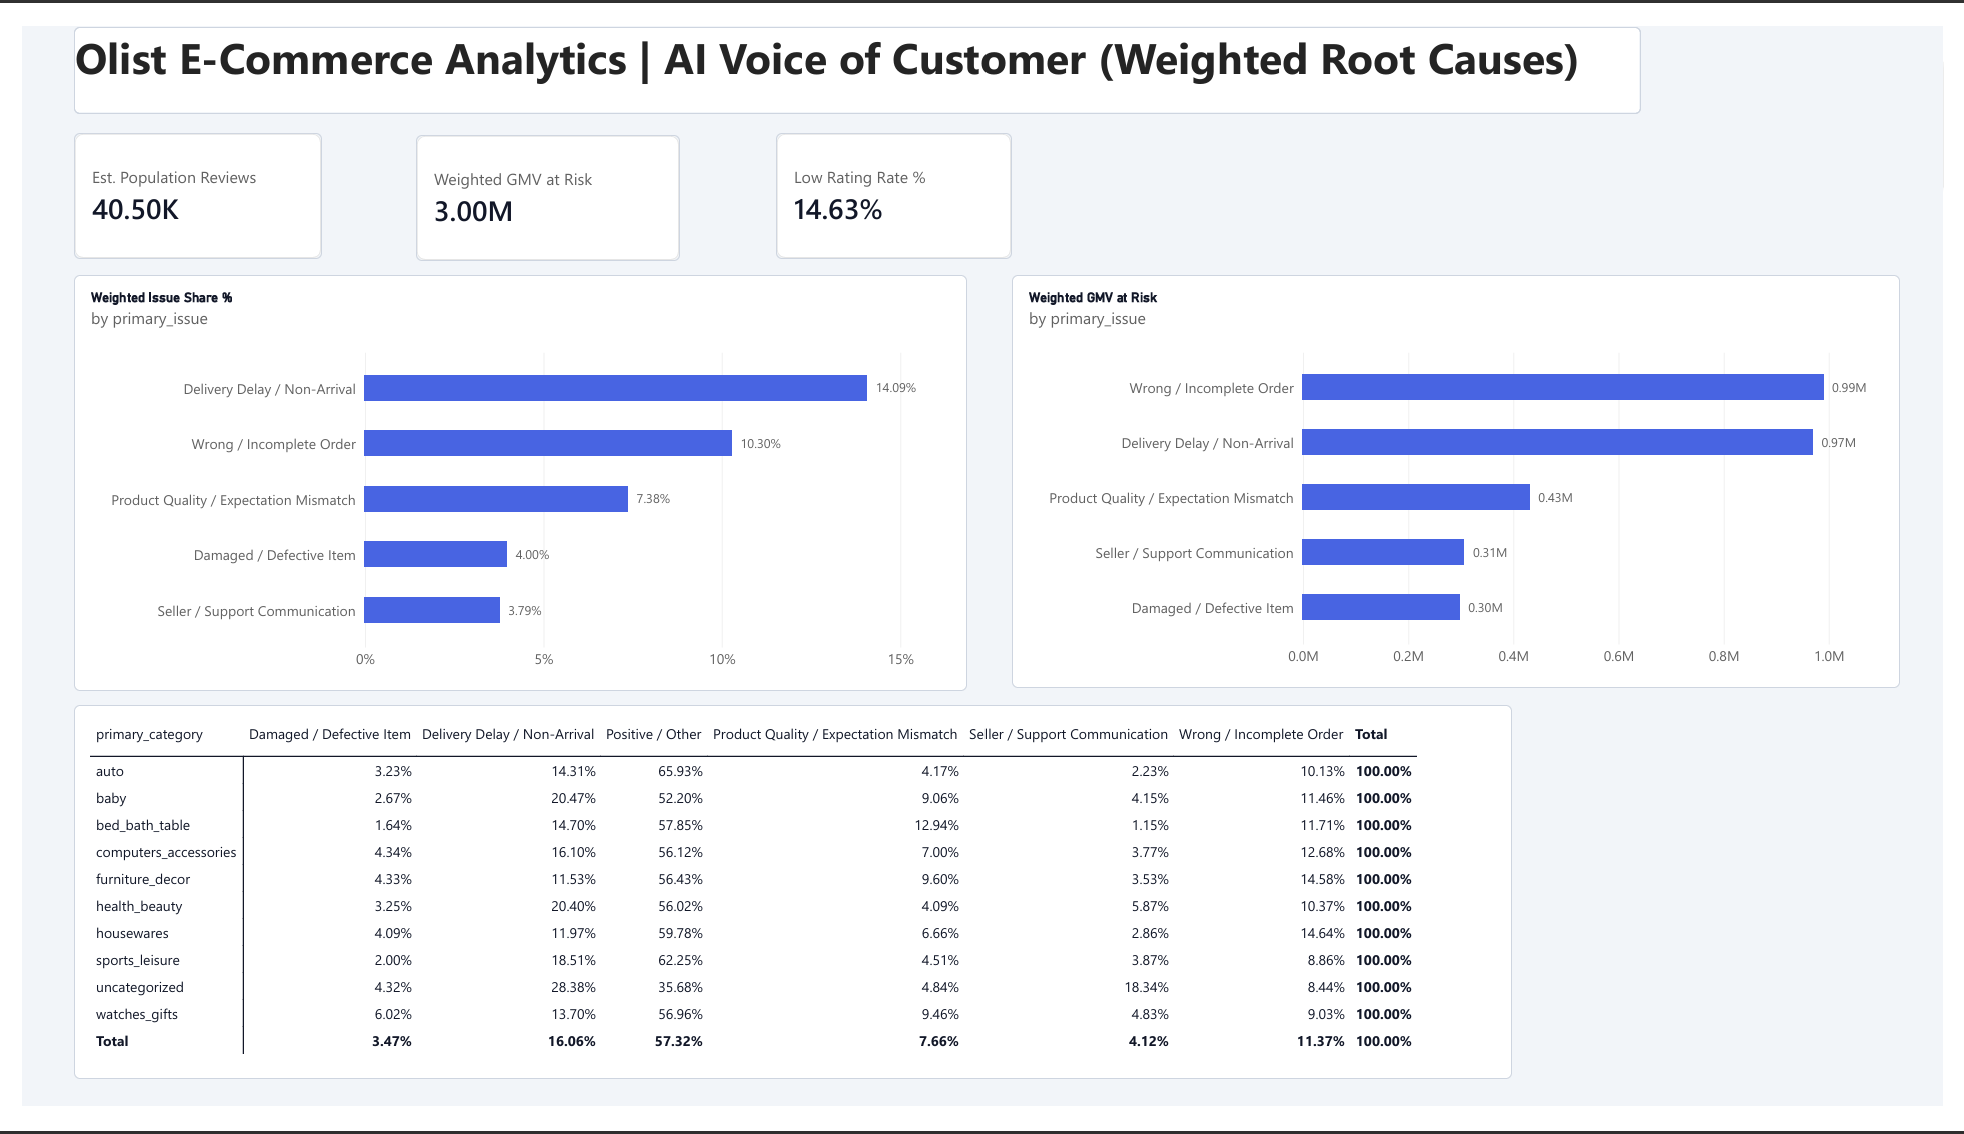
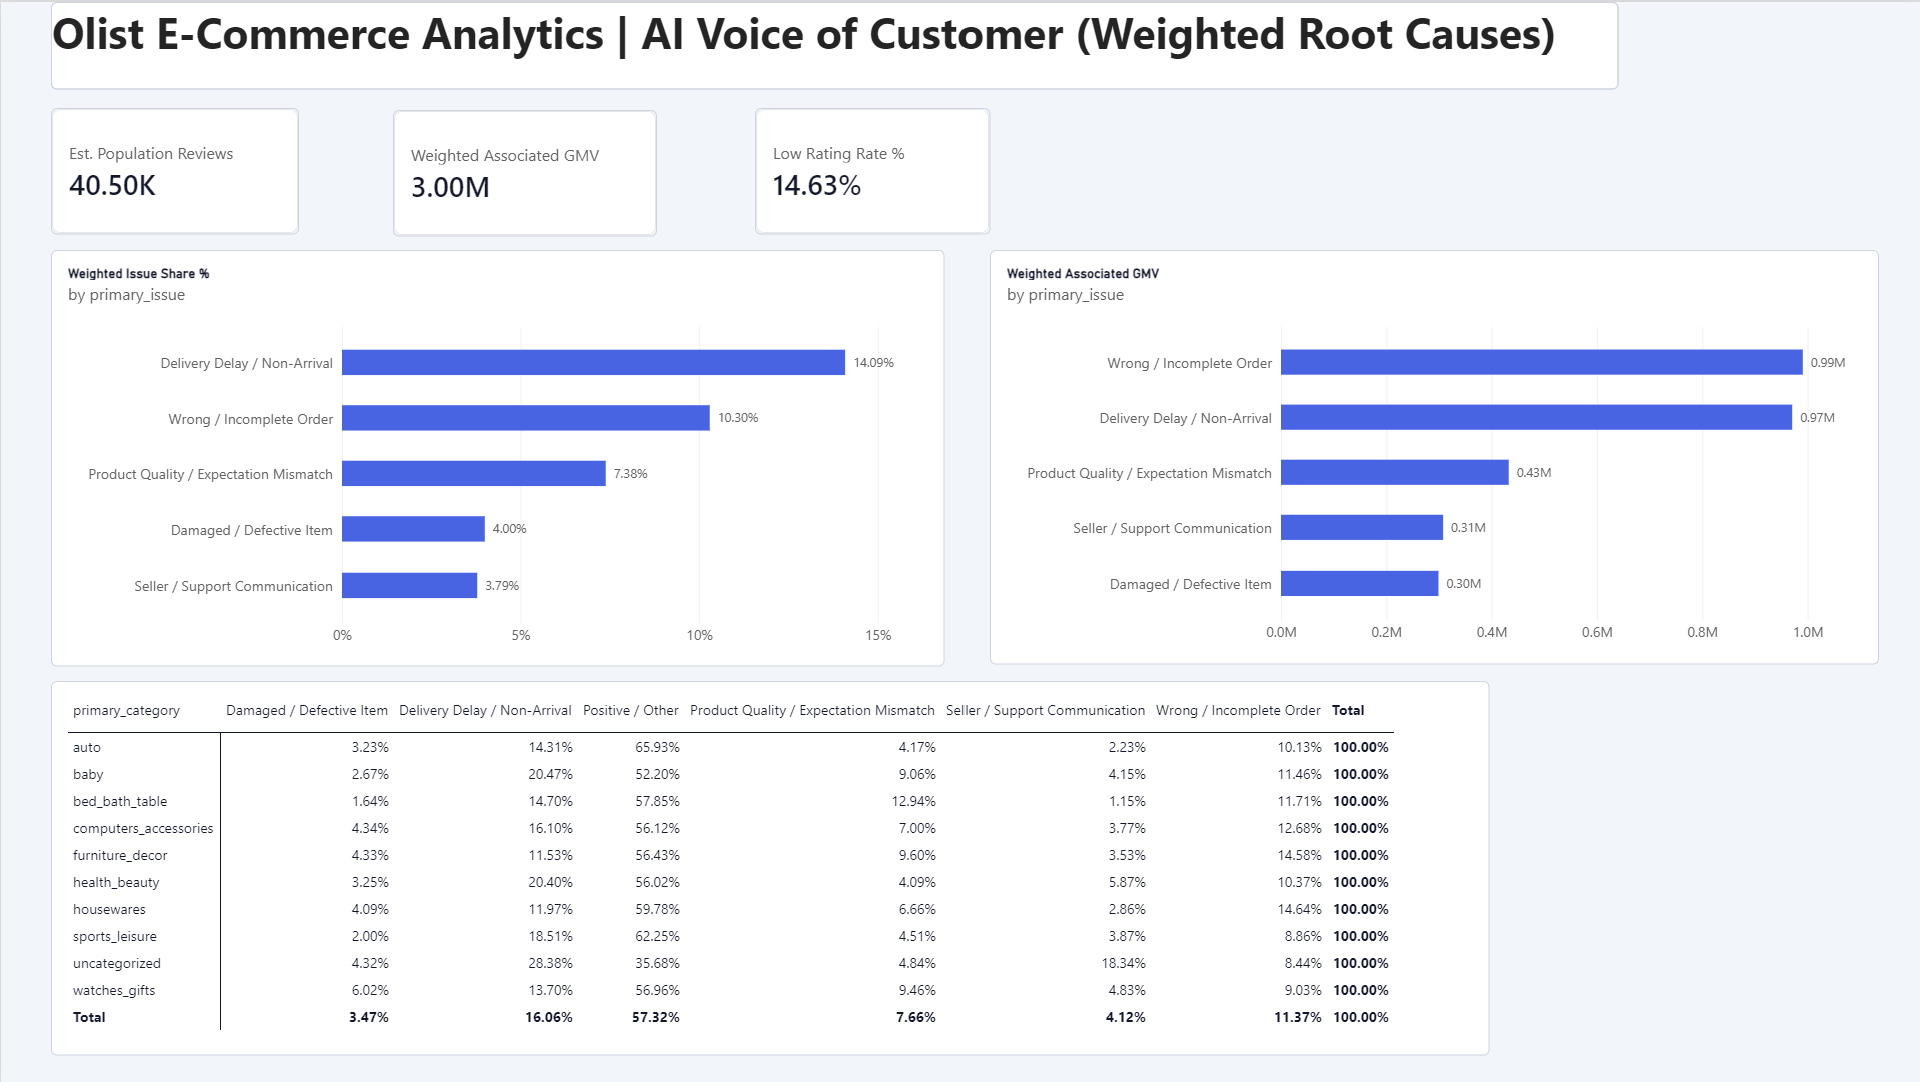
polish: standardize DB config, strict timestamp boundary, and observational caveats

diff --git a/src/03_export_for_pbi.py b/src/03_export_for_pbi.py
@@ -8,32 +8,29 @@ load_dotenv()
 
 connection_url = URL.create(
     drivername="mysql+pymysql",
-    username="root",
+    username=os.getenv("MYSQL_USER", "root"),
     password=os.getenv("MYSQL_PASSWORD"),
-    host="localhost",
-    port=3306,
-    database="olist_voc",
+    host=os.getenv("MYSQL_HOST", "localhost"),
+    port=int(os.getenv("MYSQL_PORT", "3306")),
+    database=os.getenv("MYSQL_DB", "olist_voc"),
     query={"charset": "utf8mb4"},
 )
 engine = create_engine(connection_url)
 
-OUT_DIR = "data/processed"
-os.makedirs(OUT_DIR, exist_ok=True)
-
-VIEWS = [
+VIEWS_TO_EXPORT = [
     "vw_pbi_orders",
     "vw_pbi_voc_weighted",
     "vw_pbi_cohort_retention",
 ]
 
 def export_views():
-    for view in VIEWS:
-        print(f"Exporting {view}...")
-        df = pd.read_sql(text(f"SELECT * FROM {view}"), engine)
-        out_path = os.path.join(OUT_DIR, f"{view}.csv")
+    os.makedirs("data/processed", exist_ok=True)
+    for view_name in VIEWS_TO_EXPORT:
+        print(f"Exporting {view_name}...")
+        df = pd.read_sql(text(f"SELECT * FROM {view_name}"), engine)
+        out_path = os.path.join("data", "processed", f"{view_name}.csv")
         df.to_csv(out_path, index=False, encoding="utf-8-sig")
         print(f"  -> Saved {len(df):,} rows to {out_path}")
-
     print("\nSUCCESS: All 3 Power BI datasets exported!")
 
 if __name__ == "__main__":

diff --git a/README.md b/README.md
@@ -1,18 +1,18 @@
 # E-Commerce Voice of Customer (VoC) & Logistics SLA Analytics Pipeline
 
-An end-to-end analytics engineering and AI text-classification pipeline built on the Brazilian Olist E-Commerce dataset (**99,092 orders**; **R$ 15.94M GMV**). Combines **MySQL**, **Python (Pydantic + Gemini Structured Outputs)**, **Horvitz-Thompson weighted survey estimation**, and a **3-page Power BI executive dashboard** to quantify how delivery SLA breaches and operational failures drive 1–2 star reviews and suppress 90-day repeat purchases.
+An end-to-end analytics engineering and AI text-classification pipeline built on the Brazilian Olist E-Commerce dataset (**99,092 orders**; **R$ 15.94M GMV**)[cite: 6, 11]. Combines **MySQL**, **Python (Pydantic + Gemini Structured Outputs)**, **Horvitz-Thompson weighted survey estimation**, and a **3-page Power BI executive dashboard** to quantify how delivery SLA breaches and operational failures correlate with 1–2 star reviews and 90-day repeat purchasing.
 
 ---
 
 ## Key Analytical Findings
 
-- **Logistics SLA Impact on Customer Satisfaction:** Across **99,092 orders** (`R$ 15.94M` GMV; defined as item price + freight, tracked separately from collected payment value)[cite: 11], the overall SLA breach rate is **6.79%** and low-rating (`1★–2★`) rate is **14.63%**[cite: 11]. However, low ratings jump from **9.25%** on `On Time` deliveries to **62.42%** when `SLA Breached` and **80.66%** when `Never Arrived`[cite: 11].
-- **Volume vs. Revenue Exposure (`R$ 3.00M` Weighted GMV Associated with Complaints):**
-  - **Delivery Delay / Non-Arrival** is the #1 complaint by volume (**14.09%** of all 40,494 written reviews), followed by **Wrong / Incomplete Order** (**10.30%**)[cite: 12].
-  - By expansion-weighted GMV associated with complaint-affected orders, **Wrong / Incomplete Order** overtakes delivery delays (**R$ 0.99M** vs. **R$ 0.97M**) because higher-AOV orders suffer disproportionately from fulfillment and picking errors[cite: 12].
-- **90-Day Repeat Purchase Retention & Churn Penalty (`N = 73,075` Eligible Delivered First-Time Buyers):**
-  - Overall 90-day repeat purchase rate sits at **0.95%**[cite: 10], dropping from **0.97%** after an `On Time` delivery to **0.65%** after an `SLA Breached` delivery (**33% relative drop**)[cite: 10].
-  - Across the survey-weighted AI review cohort (`is_ai_sampled = 1`), 90-day repeat purchasing stands at **1.11%** for `Positive / Other` reviews (`2.35%` for `Seller / Support Communication`, where responsive recovery can retain buyers) and **1.16%** for `Wrong / Incomplete Order` (often replacement re-orders), but collapses to **0.51%** for `Delivery Delay / Non-Arrival`, **0.17%** for `Damaged / Defective Item`, and **0.16%** for `Product Quality / Expectation Mismatch` (**~85% relative drop** vs. `Positive / Other`)[cite: 10].
+- **Logistics SLA Impact on Customer Satisfaction:** Across **99,092 orders** (`R$ 15.94M` GMV; defined as item price + freight, tracked separately from collected payment value)[cite: 6, 11], the overall SLA breach rate across all orders is **6.79%** and the low-rating (`1★–2★`) rate is **14.63%**[cite: 6]. However, low ratings surge from **9.25%** on `On Time` deliveries to **62.42%** when `SLA Breached` and **80.66%** when `Never Arrived`[cite: 6].
+- **Volume vs. Revenue Exposure (`R$ 3.00M` Weighted Associated GMV):**
+  - **Delivery Delay / Non-Arrival** is the #1 complaint by volume (**14.09%** of the 40,494 written-review population), followed by **Wrong / Incomplete Order** (**10.30%**)[cite: 7, 11].
+  - By expansion-weighted GMV associated with complaint-affected orders, **Wrong / Incomplete Order** overtakes delivery delays (**R$ 0.99M** vs. **R$ 0.97M**) because higher-AOV orders suffer disproportionately from fulfillment and picking errors[cite: 7].
+- **90-Day Observational Repeat Purchase Retention (`N = 73,075` Eligible Delivered First-Time Buyers):**
+  - Overall 90-day repeat purchase rate sits at **0.95%**, dropping from **0.98%** after an `On Time` delivery to **0.65%** after an `SLA Breached` delivery (**34% relative drop**)[cite: 5, 12, 14].
+  - Across the survey-weighted AI review cohort (`n = 3,620` sampled first-time buyers; `is_ai_sampled = 1`), observed 90-day repeat purchasing stands at **1.11%** for `Positive / Other` reviews (`2.35%` for `Seller / Support Communication`, where responsive recovery can retain buyers) and **1.16%** for `Wrong / Incomplete Order` (often replacement re-orders), compared to **0.51%** for `Delivery Delay / Non-Arrival`, **0.17%** for `Damaged / Defective Item`, and **0.16%** for `Product Quality / Expectation Mismatch`[cite: 5, 14].
 
 ---
 
@@ -24,7 +24,7 @@ An end-to-end analytics engineering and AI text-classification pipeline built on
 ### 2. AI Voice of Customer (Weighted Root Causes & Associated GMV)
 ![AI Voice of Customer](assets/page2_ai_voc.png)
 
-### 3. 90-Day Cohort Retention & Churn Penalty
+### 3. 90-Day Cohort Retention (Observational)
 ![90-Day Cohort Retention](assets/page3_cohort_retention.png)
 
 ---
@@ -32,17 +32,26 @@ An end-to-end analytics engineering and AI text-classification pipeline built on
 ## Architecture & Engineering Decisions
 
 1. **Relational Data Warehouse & Grain-Safe Modeling (`MySQL`)**
-   - Loaded and indexed **7 raw relational tables** (`sql/01_create_tables.sql`, `src/01_load_data.py`), audited anomalies (`sql/02_data_audit.sql`), and built **5 analytical & BI views** (`sql/03_clean_views.sql`, `sql/05_audit_and_pbi_views.sql`) into `vw_order_master` (**99,092 orders**), pre-aggregating `raw_order_items` and `raw_order_payments` to the order grain prior to joining to prevent multi-item / split-payment revenue fan-out and deduplicating multi-review orders using customer `review_creation_date`.
-   - Engineered delivery SLA outcomes (`On Time`, `SLA Breached`, `Never Arrived`, `days_late`), regional macro-groupings, and a delivery-anchored 90-day cohort retention view (`vw_customer_cohort_90d`, **73,075 eligible first-time delivered buyers** with a full 90-day observation window prior to `2018-08-31`), evaluating 7-day split-basket orders (`Days 0–6`) independently from true 90-day repeat orders (`Days 7–90`).
+   - Loaded and indexed **7 raw relational tables** (`sql/01_create_tables.sql`, `src/01_load_data.py`), audited anomalies (`sql/02_data_audit.sql`), and built **5 analytical & BI views** (`sql/03_clean_views.sql`, `sql/05_audit_and_pbi_views.sql`) into `vw_order_master` (**99,092 orders**), pre-aggregating `raw_order_items` and `raw_order_payments` to the order grain prior to joining to prevent multi-item / split-payment fan-out and deduplicating multi-review orders using customer `review_creation_date`[cite: 11].
+   - Engineered delivery SLA outcomes (`On Time`, `SLA Breached`, `Never Arrived`, `days_late`), regional macro-groupings, and a delivery-anchored 90-day cohort retention view (`vw_customer_cohort_90d`, **73,075 eligible first-time delivered buyers** with a full 90-day observation window prior to `2018-08-31`), strictly comparing post-delivery purchase timestamps (`order_purchase_timestamp > first_delivery_ts`) and evaluating 7-day split-basket orders (`Days 0–6`) independently from 90-day repeat orders (`Days 7–90`)[cite: 9, 12].
 
 2. **LLM Structured Classification & Horvitz-Thompson Weighting (`Python` + `Gemini API`)**
-   - Sorted the **40,494 written-comment population** deterministically by `(review_score, order_id)` and drew a reproducible star-stratified sample (**5,000 written Portuguese reviews**: 1,000 per star rating `1★–5★`).
+   - Sorted the **40,494 written-comment population** deterministically by `(review_score, order_id)` and drew a reproducible star-stratified sample (**5,000 written Portuguese reviews**: 1,000 per star rating `1★–5★`)[cite: 11].
    - Built an idempotent, checkpointed micro-batching pipeline (`src/02_classify_reviews.py`) with **Pydantic schema enforcement**, exact batch `order_id` completeness assertions, and multi-model fallback (`gemini-3.5-flash-lite` / `gemini-3.8-flash` / `gemini-4-hydrogen`) to classify reviews into 6 mutually exclusive operational categories.
-   - Validated classification quality against an **independent 100-review human-annotated holdout set (`is_dev_set = 1`)** stored in `data/processed/dev_set_audit_100.csv` and scored directly against MySQL `ai_review_tags`, achieving **98.0% exact-match accuracy (98/100)** (`python src/04_audit_dev_set.py --score`).
-   - Applied exact inverse-probability stratum weights (`sample_weight = N_stratum / n_stratum`) to project unbiased population complaint rates, associated GMV, and survey-weighted AI-issue repeat rates across all 40,494 written reviews.
+   - Evaluated classification alignment on a **100-review development/audit slice (`is_dev_set = 1`)** blindly annotated by the author prior to inspecting model outputs (`data/processed/dev_set_audit_100.csv`) and scored directly against MySQL `ai_review_tags`, achieving **98.0% overall exact-match agreement (98/100)** (`python src/04_audit_dev_set.py --score`).
+   - Applied exact inverse-probability stratum weights (`sample_weight = N_stratum / n_stratum`) to project unbiased population complaint shares, associated GMV, and survey-weighted AI-issue repeat rates across all 40,494 written reviews.
 
 3. **Executive BI Semantic Model (`Power BI Desktop`)**
-   - Built a 3-table `1:1` single-direction semantic model (`vw_pbi_orders`, `vw_pbi_voc_weighted`, `vw_pbi_cohort_retention`) with 9 custom DAX measures (including Horvitz-Thompson survey-weighted retention) and a custom JSON report theme (`powerbi/olist_executive_theme.json`).
+   - Built a 3-table `1:1` single-direction semantic model (`vw_pbi_orders`, `vw_pbi_voc_weighted`, `vw_pbi_cohort_retention`) with 11 custom DAX measures (including Horvitz-Thompson survey-weighted retention) and a custom JSON report theme (`powerbi/olist_executive_theme.json`)[cite: 14].
+
+---
+
+## Methodological Scope & Limitations
+
+- **Observational Association vs. Causality:** Inverse-probability sampling weights correct for the equal-allocation star-stratified sampling design, but they do not control for confounding variables (such as product category, price tier, or buyer intent). Differences in 90-day repeat purchasing across issue categories represent weighted observational associations rather than causal treatment effects.
+- **Associated GMV vs. Realized Financial Loss:** Olist public data does not include refund, return-shipping, or chargeback ledgers. `Weighted Associated GMV` (`R$ 3.00M`) measures total order value exposed to complaint-affected orders, not net refunded revenue[cite: 7].
+- **Point Estimates & Rare-Class Sample Sizes:** Reported shares and weighted retention rates are survey point estimates rather than exact population constants. Similarly, while the 100-review human audit establishes 98.0% overall agreement, rare categories (e.g., `Seller / Support Communication`, `n = 3` in the audit slice) have small sample sizes and wider uncertainty intervals.
+- **Loader Atomicity:** `src/01_load_data.py` truncates and reloads raw tables sequentially; an interrupted run requires re-running the loader from a clean state.
 
 ---
 
@@ -67,7 +76,7 @@ mysql -u root -p < sql/04_create_ai_table.sql
 python src/02_classify_reviews.py
 mysql -u root -p < sql/05_audit_and_pbi_views.sql
 
-# 4. Verify holdout audit accuracy & export Power BI CSVs
+# 4. Verify audit agreement & export Power BI CSVs
 python src/04_audit_dev_set.py --score
 python src/03_export_for_pbi.py
 ```
